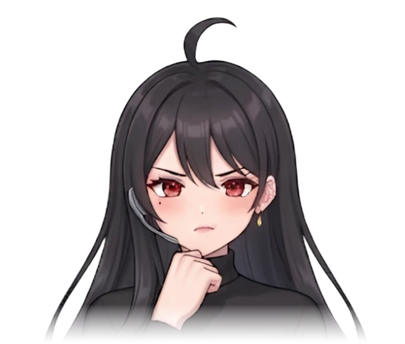
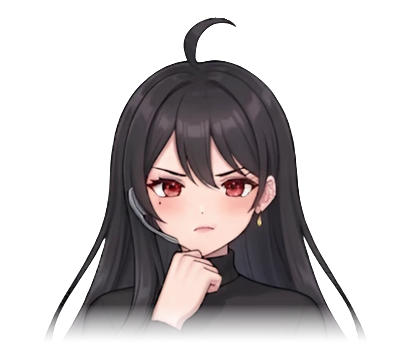
fix: clean Nuri's full-body shy face and Sera's hair haze
- Full-body shy: the bust art's sleeve cuffs reached the mouth corners;
  the pasted mouth area moves lower and the cuff lace in it is painted
  with the surrounding skin tone (config "cover" polygons)
- Sera: drop bright semi-transparent pixels left by background removal
  around the dark hair (ahoge tip) and sharpen the alpha edge; applied
  to bust and full-body frames

Claude-Session: https://claude.ai/code/session_01L42W33ifVQcmMy8xts9BDQ

diff --git a/tools/build_frames.py b/tools/build_frames.py
@@ -37,7 +37,16 @@ CHARACTERS = {
             blink=((1363.3, 1439.5, 335.6, 386.3), (1500.0, 1582.0, 335.6, 386.3)), skin=(1471, 363),
         ),
         # Full-body figure on the left of the base sheet: cut box, figure top/bottom, eyes.
-        full=dict(crop=(100, 0, 680, 1116), top=131, bottom=1089, mid=(369.5, 195), dist=59),
+        full=dict(crop=(100, 0, 680, 1116), top=131, bottom=1089, mid=(369.5, 195), dist=59,
+                  # Shy's mouth sits lower and its sleeve cuffs reach the mouth corners: use a
+                  # lower, wider mouth area and paint the cuff lace/outlines in it with skin.
+                  # Polygons are in eye-distance units relative to the eye midpoint.
+                  mouth={"shy": (0.34, 0.36, 0.88)},
+                  cover={"shy": [
+                      [(-0.42, 0.58), (-0.15, 0.6), (-0.15, 0.76), (-0.06, 0.9), (-0.42, 0.9)],
+                      [(0.27, 0.6), (0.42, 0.6), (0.42, 0.9), (0.12, 0.9), (0.2, 0.79), (0.27, 0.74)],
+                      [(-0.42, 0.82), (0.42, 0.82), (0.42, 0.95), (-0.42, 0.95)],
+                  ]}),
         expressions=dict(
             sheet="reference_expressions.webp", dist=89,
             columns=((0, 690), (690, 1300), (1300, 2000)), rows=((0, 560), (560, 1116)),
@@ -57,6 +66,11 @@ CHARACTERS = {
             blink=((1366, 1442, 330, 374), (1505, 1584, 330, 374)), skin="ring", lash=3.4, feather=2.4,
         ),
         full=dict(crop=(120, 0, 620, 1116), top=52, bottom=1096, mid=(372, 189), dist=52),
+        # Background removal left a faint gray haze around the dark hair (ahoge tip):
+        # drop alpha below the floor and stretch the rest so edges end crisply.
+        # Semi-transparent pixels brighter than haze_lum are background haze (the hair's real
+        # edges are dark), so they are dropped too.
+        alpha=dict(floor=60, gain=1.35, haze_lum=75),
         expressions=dict(
             # 2000x1117 upscale of the original 1024x572 sheet; coordinates scaled by ~1.953.
             sheet="reference_expressions.webp", dist=82,
@@ -84,13 +98,24 @@ def place(img, mid, k):
 def to_out(p, mid, k):
     return ((p[0] - mid[0]) * k + EYE_OUT[0], (p[1] - mid[1]) * k + EYE_OUT[1])
 
-def clean(img, fade=40):
+def harden(img, floor, gain, haze_lum=None):
+    a = np.array(img)
+    alpha = a[..., 3].astype(float)
+    if haze_lum is not None:
+        haze = (alpha < 200) & (a[..., :3].mean(-1) > haze_lum)
+        alpha[haze] = 0
+    a[..., 3] = np.clip((alpha - floor) * gain * 255 / (255 - floor), 0, 255).astype(np.uint8)
+    return Image.fromarray(a)
+
+def clean(img, fade=40, alpha_fix=None):
+    if alpha_fix:
+        img = harden(img, **alpha_fix)
     a = np.array(img)
     alpha = a[..., 3]
     labels, n = ndimage.label(alpha > 40)
     if n:
         sizes = ndimage.sum(np.ones_like(alpha), labels, range(1, n + 1))
-        keep = ndimage.binary_dilation(labels == (np.argmax(sizes) + 1), iterations=2)
+        keep = ndimage.binary_dilation(labels == (np.argmax(sizes) + 1), iterations=4)
         alpha[~keep] = 0
     ramp = np.linspace(1, 0, fade) ** 1.5
     alpha[H - fade:] = (alpha[H - fade:] * ramp[:, None]).astype(np.uint8)
@@ -153,6 +178,8 @@ def build_full(config, folder, session, frames, out):
     sheet = Image.open(folder / config["base"]["sheet"]).convert("RGB")
     ox, oy = full["crop"][:2]
     figure = remove(sheet.crop(full["crop"]), session=session).convert("RGBA")
+    if config.get("alpha"):
+        figure = harden(figure, **config["alpha"])
     k = FULL_FIGURE_H / (full["bottom"] - full["top"])
     eye = ((full["mid"][0] - ox) * k, (full["mid"][1] - oy) * k)
     # Center horizontally on the eyes, feet a few pixels above the frame bottom.
@@ -167,17 +194,44 @@ def build_full(config, folder, session, frames, out):
     # Brows+eyes band plus a small mouth oval: wide enough for the expression, but it
     # stops short of the chin and cheeks where bust poses put hands and sleeves.
     d, (ex, ey) = config["eye_px"], EYE_OUT
-    mask = Image.new("L", (W, H), 0)
-    draw = ImageDraw.Draw(mask)
-    draw.ellipse([ex - 1.0 * d, ey - 0.6 * d, ex + 1.0 * d, ey + 0.5 * d], fill=255)
-    draw.ellipse([ex - 0.36 * d, ey + 0.32 * d, ex + 0.36 * d, ey + 0.86 * d], fill=255)
-    mask = mask.filter(ImageFilter.GaussianBlur(d * 0.07))
+
+    def cover(frame, polygons, oval):
+        """Paint the given regions with the median skin tone found in the mouth oval."""
+        a = np.array(frame).copy()
+        region = Image.new("L", (W, H), 0)
+        draw = ImageDraw.Draw(region)
+        for polygon in polygons:
+            draw.polygon([(ex + x * d, ey + y * d) for x, y in polygon], fill=255)
+        covered = np.array(region) > 0
+        rgb = a[..., :3].astype(int)
+        saturation, lum = rgb.max(-1) - rgb.min(-1), rgb.mean(-1)
+        skin = (np.array(oval) > 0) & ~covered & (saturation >= 33) & (saturation < 90) & (lum > 185)
+        if skin.any():
+            a[covered, :3] = np.median(rgb[skin], axis=0).astype(np.uint8)
+            a[covered, 3] = 255
+        return Image.fromarray(a)
+
+    def face_mask(frame_name, frame):
+        expression = frame_name.split("_")[0]
+        half, top, bottom = full.get("mouth", {}).get(expression, (0.36, 0.32, 0.86))
+        band = Image.new("L", (W, H), 0)
+        ImageDraw.Draw(band).ellipse([ex - 1.0 * d, ey - 0.6 * d, ex + 1.0 * d, ey + 0.5 * d], fill=255)
+        mouth = Image.new("L", (W, H), 0)
+        ImageDraw.Draw(mouth).ellipse([ex - half * d, ey + top * d, ex + half * d, ey + bottom * d], fill=255)
+        mask = Image.fromarray(np.maximum(np.array(band), np.array(mouth)))
+        return mask.filter(ImageFilter.GaussianBlur(d * 0.07))
 
     out = out / "full"
     out.mkdir(parents=True, exist_ok=True)
     for frame_name, frame in frames.items():
         face = frame.copy()
-        face.putalpha(Image.composite(face.getchannel("A"), Image.new("L", face.size, 0), mask))
+        expression = frame_name.split("_")[0]
+        if expression in full.get("cover", {}):
+            half, top, bottom = full["mouth"][expression]
+            oval = Image.new("L", (W, H), 0)
+            ImageDraw.Draw(oval).ellipse([ex - half * d, ey + top * d, ex + half * d, ey + bottom * d], fill=255)
+            face = cover(face, full["cover"][expression], oval)
+        face.putalpha(Image.composite(face.getchannel("A"), Image.new("L", face.size, 0), face_mask(frame_name, frame)))
         size = (round(W * face_k), round(H * face_k))
         small = face.convert("RGBa").resize(size, Image.LANCZOS).convert("RGBA")
         result = base.copy()
@@ -228,7 +282,7 @@ def build(name, out):
             frames[f"{expression}_talk"] = talk(frames[expression], to_out((mx - x0, my - y0), mid, k), size)
 
     out.mkdir(parents=True, exist_ok=True)
-    cleaned = {frame: clean(img) for frame, img in frames.items()}
+    cleaned = {frame: clean(img, alpha_fix=config.get("alpha")) for frame, img in frames.items()}
     for frame, img in cleaned.items():
         img.save(out / f"{frame}.png", optimize=True)
     if "full" in config:

diff --git a/HISTORY.md b/HISTORY.md
@@ -4,6 +4,10 @@
 
 ## 2026-10-06
 
+### 전신·세라 이미지 다듬기
+- 누리 전신 부끄럼 표정: 상반신 표정의 소매 끝이 입가에 붙어 오던 것을, 입 영역을 아래로 옮기고 소매 레이스 부분을 피부색으로 덮어 없앴습니다 (`full["cover"]`).
+- 세라 바보털 옆 회색 번짐: 배경 제거가 남긴 반투명 픽셀 중 밝은 것(진짜 머리 가장자리는 어두움)을 지우고 가장자리를 또렷하게 했습니다 (`alpha` 설정). 상반신·전신 모두 적용.
+
 ### 전신 모드
 - 메뉴에 `전신으로 보기`를 추가했습니다. 누리·세라는 기본 시트 왼쪽의 전신 그림으로 나옵니다.
 - 표정 시트는 상반신뿐이라, 상반신 프레임의 얼굴(눈썹·눈 띠 + 입 주변)만 떼어 전신 얼굴에 눈 위치로 맞춰 붙였습니다. 처음엔 큰 타원으로 붙였더니 손동작(펜 든 손, 볼 감싼 소매)이 따라와서 영역을 좁혔습니다.
